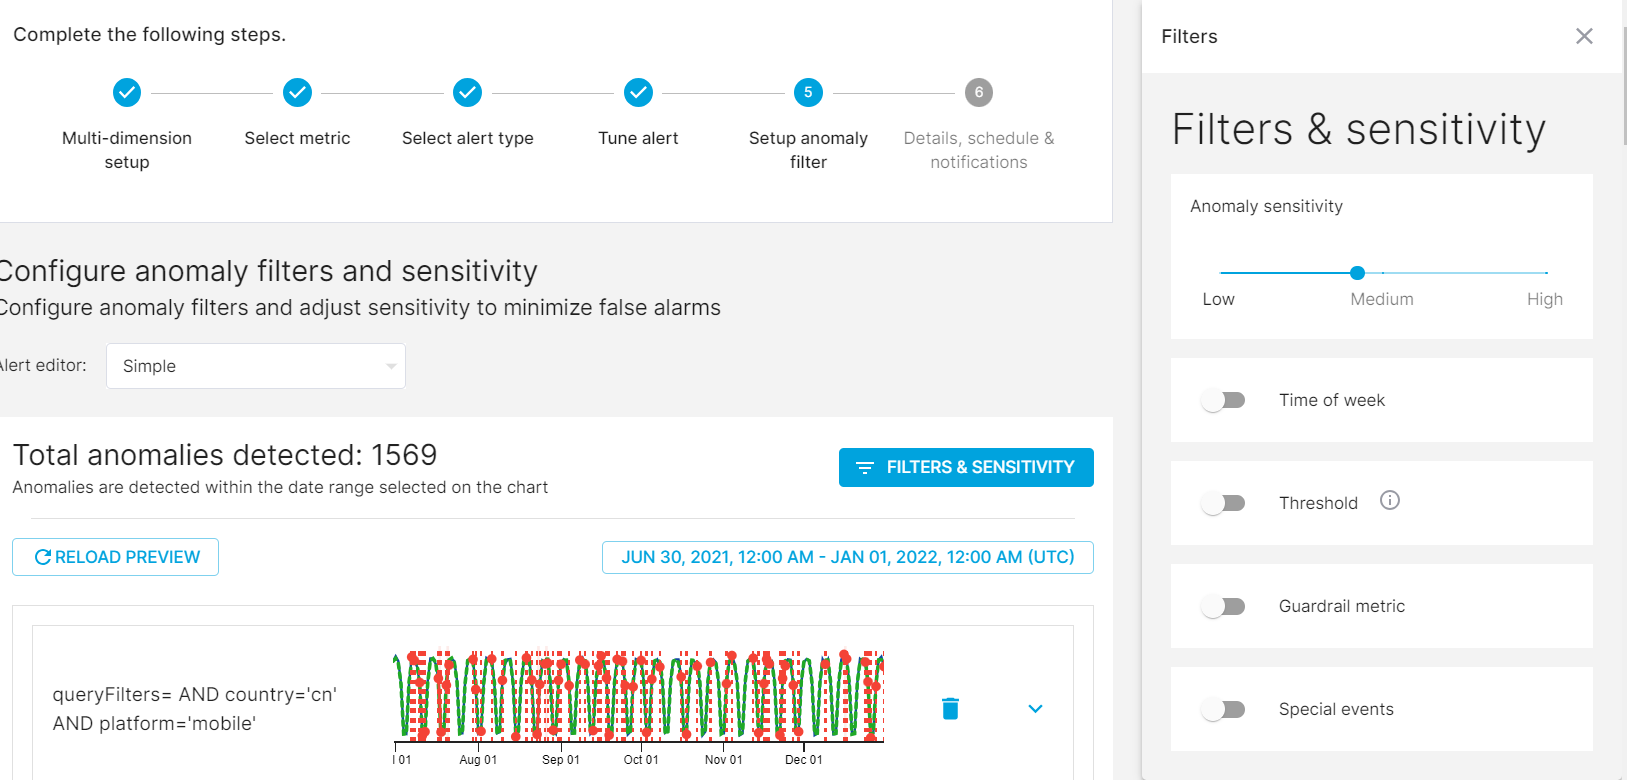
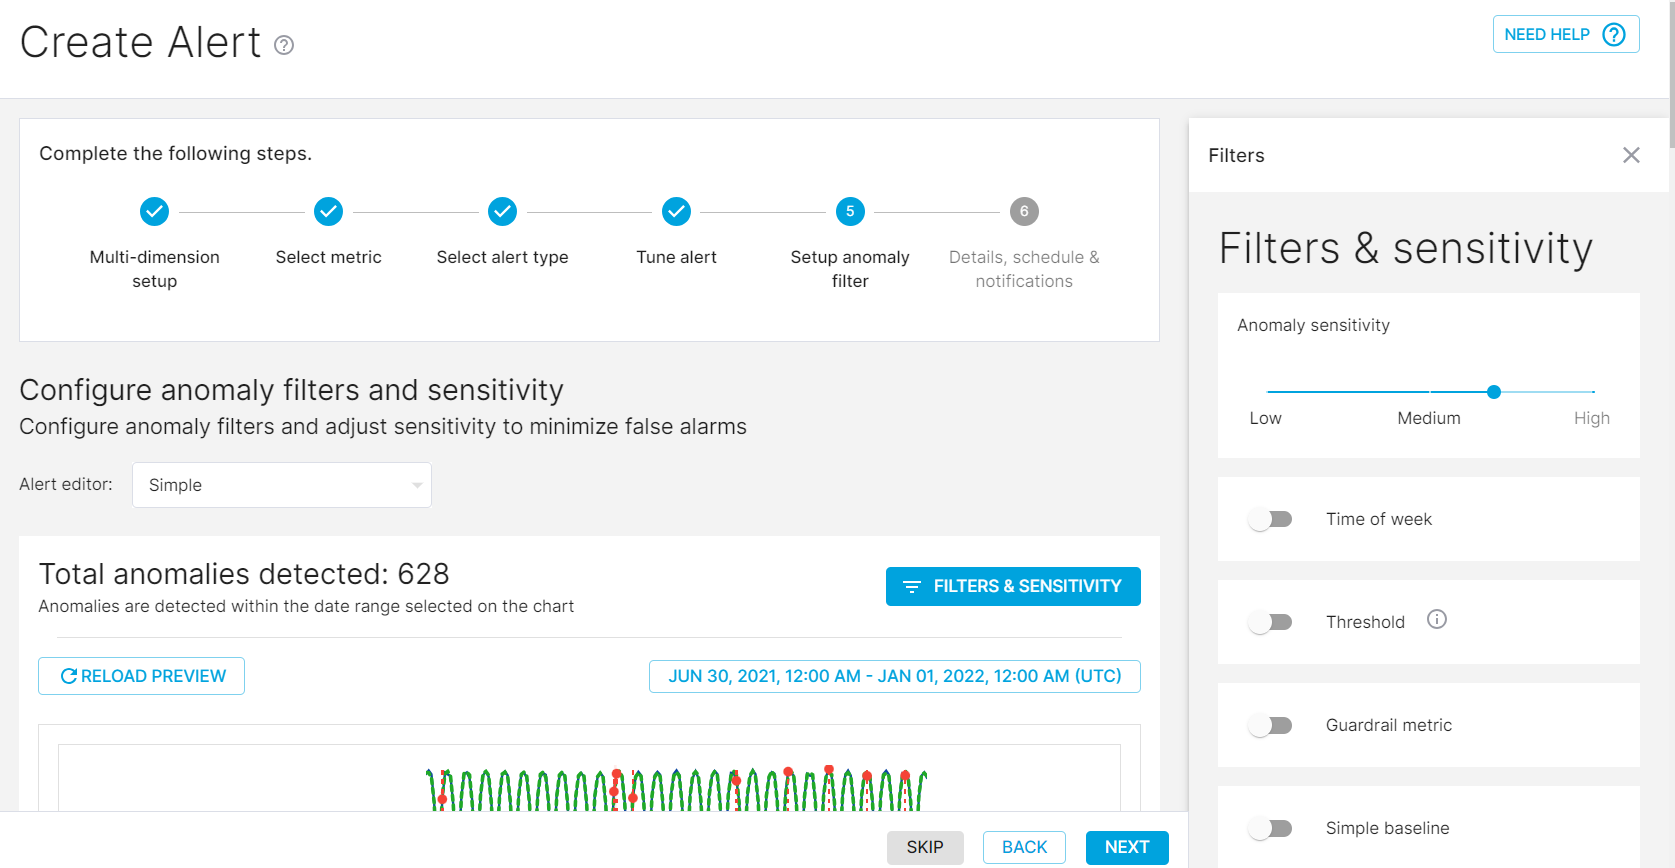
Updated images, ETS used.

diff --git a/GettingStartedThirdEye/Readme.md b/GettingStartedThirdEye/Readme.md
@@ -114,21 +114,21 @@ Let's select all the dimensions, and click on the button Create Multi-dimension 
 
 You should now be one step further in the workflow, where you can select the granularity. The default is Daily, but you can change it.  Load chart to see what the pattern looks like.  You can also change the date range to see what shows up.
 
-Choose AVG as the Aggregation function, and hourly as te granularity, reload preview and scroll down to country are.  Notice some spikes.
+Choose SUM as the Aggregation function, and hourly as te granularity, reload preview and scroll down to country are.  Notice some spikes.
 
 ![ThirdEye Screen](/images/thirdeye/thirdeye11.png "ThirdEye Alert Configuration Page")
 
-For our alert, I am going to choose avg daily.
+For our alert, I am going to choose SUM & Daily.
 Select Next to move to the algorithm selection.
 
-For this scenario, I am not looking for seasonal variation in the click rates, and am focused on the day to day click rates.  So, I am going to select the Mean Varience Rule.
+I am going to select the StarTree-ETS Rule.
 
 ![ThirdEye Screen](/images/thirdeye/thirdeye12.png "ThirdEye Alert Configuration Page")
 
 Select the Next button, which takes you to the Tune alert page.
 Here, you can adjust the sensivity, seasonality, and lookback period. You can load chart to see the alerts that show up based on your tuning.
 
-For our scenario, we will pick the defaults.
+For our scenario, we will pick high sensitivity & the rest default values.
 
 ![ThirdEye Screen](/images/thirdeye/thirdeye13.png "ThirdEye Alert Configuration Page")
 
